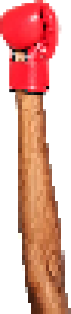
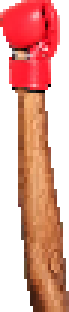
Asset updates

Changed region(s): [[0.0, 0.0, 1.0, 1.0], [0.5507, 0.6058, 0.6087, 0.6346]]

diff --git a/game.js b/game.js
@@ -391,7 +391,7 @@ class Game {
 		MIN_GAP = height * 0.3
 		MAX_GAP = height * 0.45
 		GLOVE_OPENING = MIN_GAP + Math.random() * (MAX_GAP - MIN_GAP)
-		CHEEKS_SIZE = height * 0.12
+		CHEEKS_SIZE = height * 0.18
 		ARM_SCALE = height * 0.12
 	}
 
